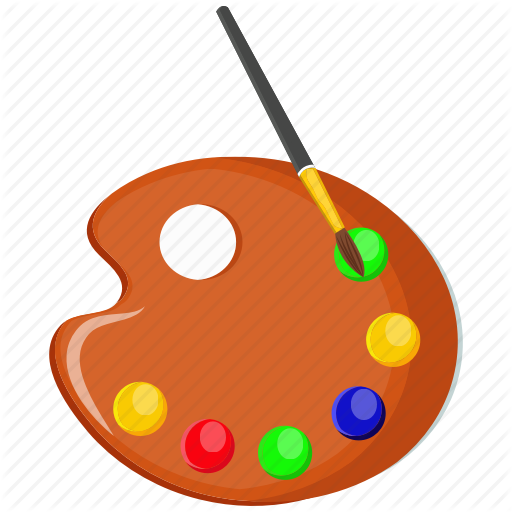
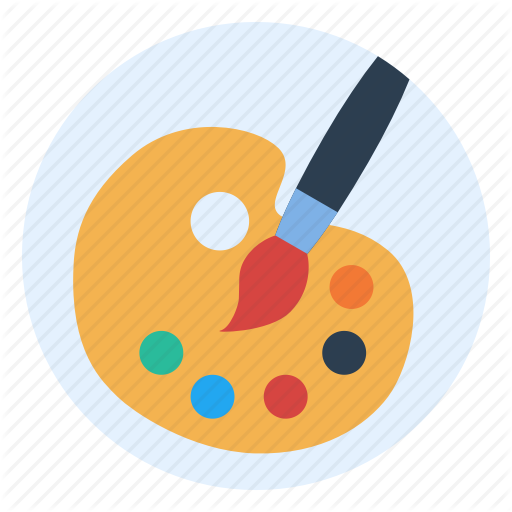
Added photos and logic to change images for each pag

diff --git a/assets/js/home.js b/assets/js/home.js
@@ -9,13 +9,13 @@ $(window).scroll(function() {
 
 //Changing background of jumbotron
 switch (document.querySelector("#jumboName > h1").textContent) {
-  case " Art Collection": document.querySelector(".jumbotron").style.backgroundImage = "url(../data/images/sample.jpg)";
+  case " Art Collection": document.querySelector(".jumbotron").style.backgroundImage = "url(../data/images/inktober.jpg)";
                           break;
-  case " Image Gallery":  document.querySelector(".jumbotron").style.backgroundImage = "url(../data/images/portrait.png)";
+  case " Image Gallery":  document.querySelector(".jumbotron").style.backgroundImage = "url(../data/images/frames.jpg)";
                           break;
-  case " Order A Sketch": document.querySelector(".jumbotron").style.backgroundImage = "url(../data/images/order_image.jpg)";
+  case " Order A Sketch": document.querySelector(".jumbotron").style.backgroundImage = "url(../data/images/sketch_order.jpg)";
                           break;
-  case " World of Colors!": document.querySelector(".jumbotron").style.backgroundImage = "url(../data/images/sketch.png)";
+  case " World of Colors!": document.querySelector(".jumbotron").style.backgroundImage = "url(../data/images/ronald-cuyan-AJgFLjnmSs4-unsplash.jpg)";
                             document.querySelector(".navbar").classList.add("rainbow_background");
                             break;
 }

diff --git a/pages/order.html b/pages/order.html
@@ -86,7 +86,7 @@
                         <input type="text" class="form-control" id="nameinput" required>
                     </div>
                     <div class="form-group">
-                        <label for="emailinput">Email: </label>
+                        <label for="emailinput">E-mail: </label>
                         <input type="email" class="form-control" id="emailinput" placeholder="name@example.com" required>
                     </div>
                     <div class="form-group">
@@ -157,7 +157,7 @@
                 <br><br>
                 <ul>
                     <li><i class="fas fa-feather-alt"></i> Sketches will be made on good quality A3, A4 or A5 size sheets using semi-professional tools.</li>
-                    <li><i class="fas fa-feather-alt"></i> The cost for each type will vary as follow: <br>
+                    <li><i class="fas fa-feather-alt"></i> The cost for each type will vary as follows: <br>
                                                             <strong>A5</strong> : &#8377 500 - &#8377 700<br>
                                                             <strong>A4</strong> : &#8377 700 - &#8377 900<br> 
                                                             <strong>A3</strong> : &#8377 900 - &#8377 1400<br>

diff --git a/pages/games.html b/pages/games.html
@@ -24,7 +24,7 @@
     <!-- Navbar -->
     <nav class="navbar navbar-expand-lg fixed-top p-0">
         <div class="container-fluid p-0">
-            <a class="navbar-brand m-0" id="activepage" href="../pages/home.html"><img id="logo" src="../data/images/P&L(black).png" width = "50" height = "50"></a>
+            <a class="navbar-brand m-0" href="../pages/home.html"><img id="logo" src="../data/images/P&L(black).png" width = "50" height = "50"></a>
             <button class="navbar-toggler" type="button" data-toggle="collapse" data-target="#navbarSupportedContent" aria-controls="navbarSupportedContent" aria-expanded="false" aria-label="Toggle navigation">
             <span class="navbar-toggler-icon"></span>
             </button>
@@ -38,11 +38,6 @@
                     </a>
                     <a class="nav-link galleries" href="../pages/order.html">
                         <li class="nav-item">Order A Sketch</li>
-                    </a>
-                </ul>
-                <ul class="nav navbar-nav ml-auto">
-                    <a href="#">
-                        <li class="nav-item"><button class="glow-on-hover" type="button">World of Colors!</button></li>
                     </a>
                 </ul>
             </div>

diff --git a/assets/css/home.css b/assets/css/home.css
@@ -23,7 +23,7 @@ footer {
 .jumbotron {
     padding-top: 80px;
     height: 35em;
-    background: url("../../data/images/bg.png") center no-repeat;
+    background: url("../../data/images/kelli-tungay-2LJ4rqK2qfU-unsplash.jpg") center no-repeat;
     background-size: cover;
     background-color: rgba(255,255,255,0.5);
     background-blend-mode: lighten;
@@ -198,12 +198,12 @@ h1 {
 
 .rainbow_background {
     background: linear-gradient(124deg, #ff2400, #e81d1d, #e8b71d, #e3e81d, #1de840, #1ddde8, #2b1de8, #dd00f3, #dd00f3);
-    background-size: 1800% 1800%;
+    background-size: 1500% 1500%;
 
-    -webkit-animation: rainbow 18s ease infinite;
-    -z-animation: rainbow 18s ease infinite;
-    -o-animation: rainbow 18s ease infinite;
-    animation: rainbow 18s ease infinite;}
+    -webkit-animation: rainbow 10s ease infinite;
+    -z-animation: rainbow 10s ease infinite;
+    -o-animation: rainbow 10s ease infinite;
+    animation: rainbow 10s ease infinite;}
 }
 
 .navbar-toggler-icon {

diff --git a/pages/home.html b/pages/home.html
@@ -36,7 +36,7 @@
                     <a class="nav-link galleries" href="../pages/art.html">
                         <li class="nav-item">Art Collection</li>
                     </a>
-                    <a class="nav-link galleries" href="../pages/art.html">
+                    <a class="nav-link galleries" href="../pages/photo.html">
                         <li class="nav-item">Image Gallery</li>
                     </a>
                     <a class="nav-link galleries" href="../pages/order.html">

diff --git a/assets/js/order.js b/assets/js/order.js
@@ -1,5 +1,5 @@
 
-var img_list = ["../data/images/order_image.jpg","../data/images/sketch.png","../data/images/photo.png","../data/images/portrait.png","../data/images/sample.jpg"];
+var img_list = ["../data/images/sketch.png","../data/images/photo.png","../data/images/portrait.png","../data/images/sample.jpg"];
 var idx = 0;
 
 function changeimg() {
